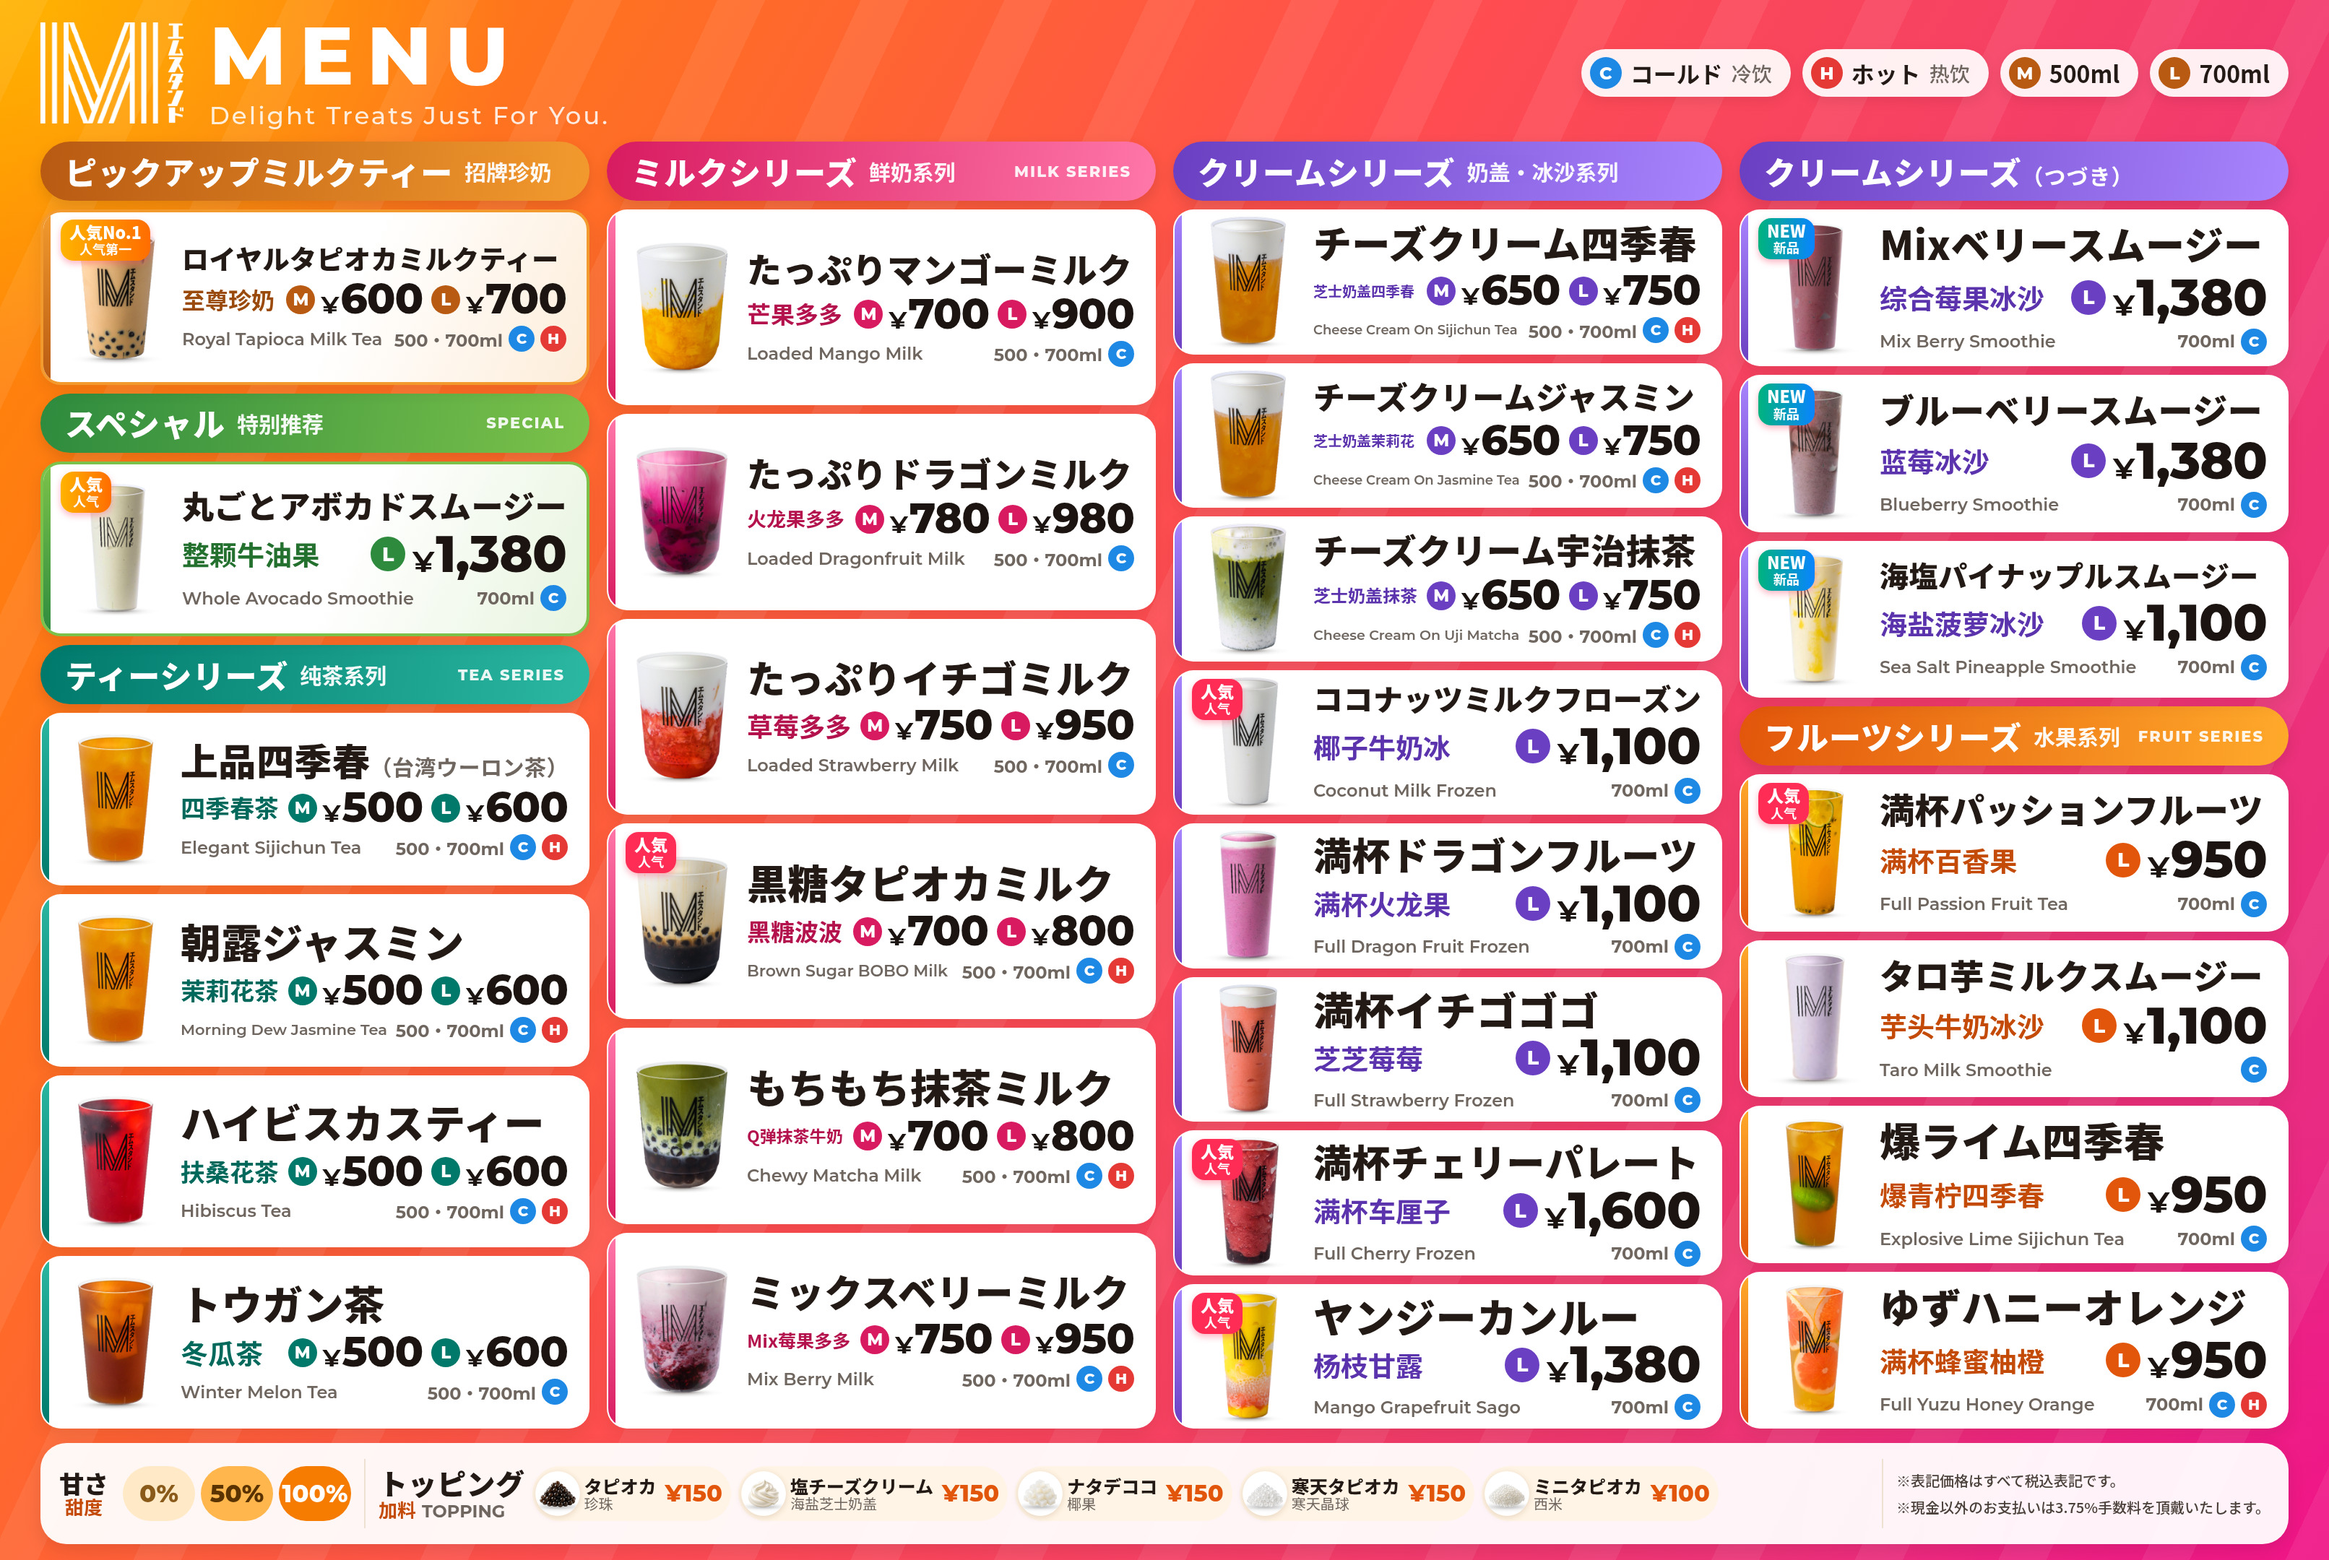
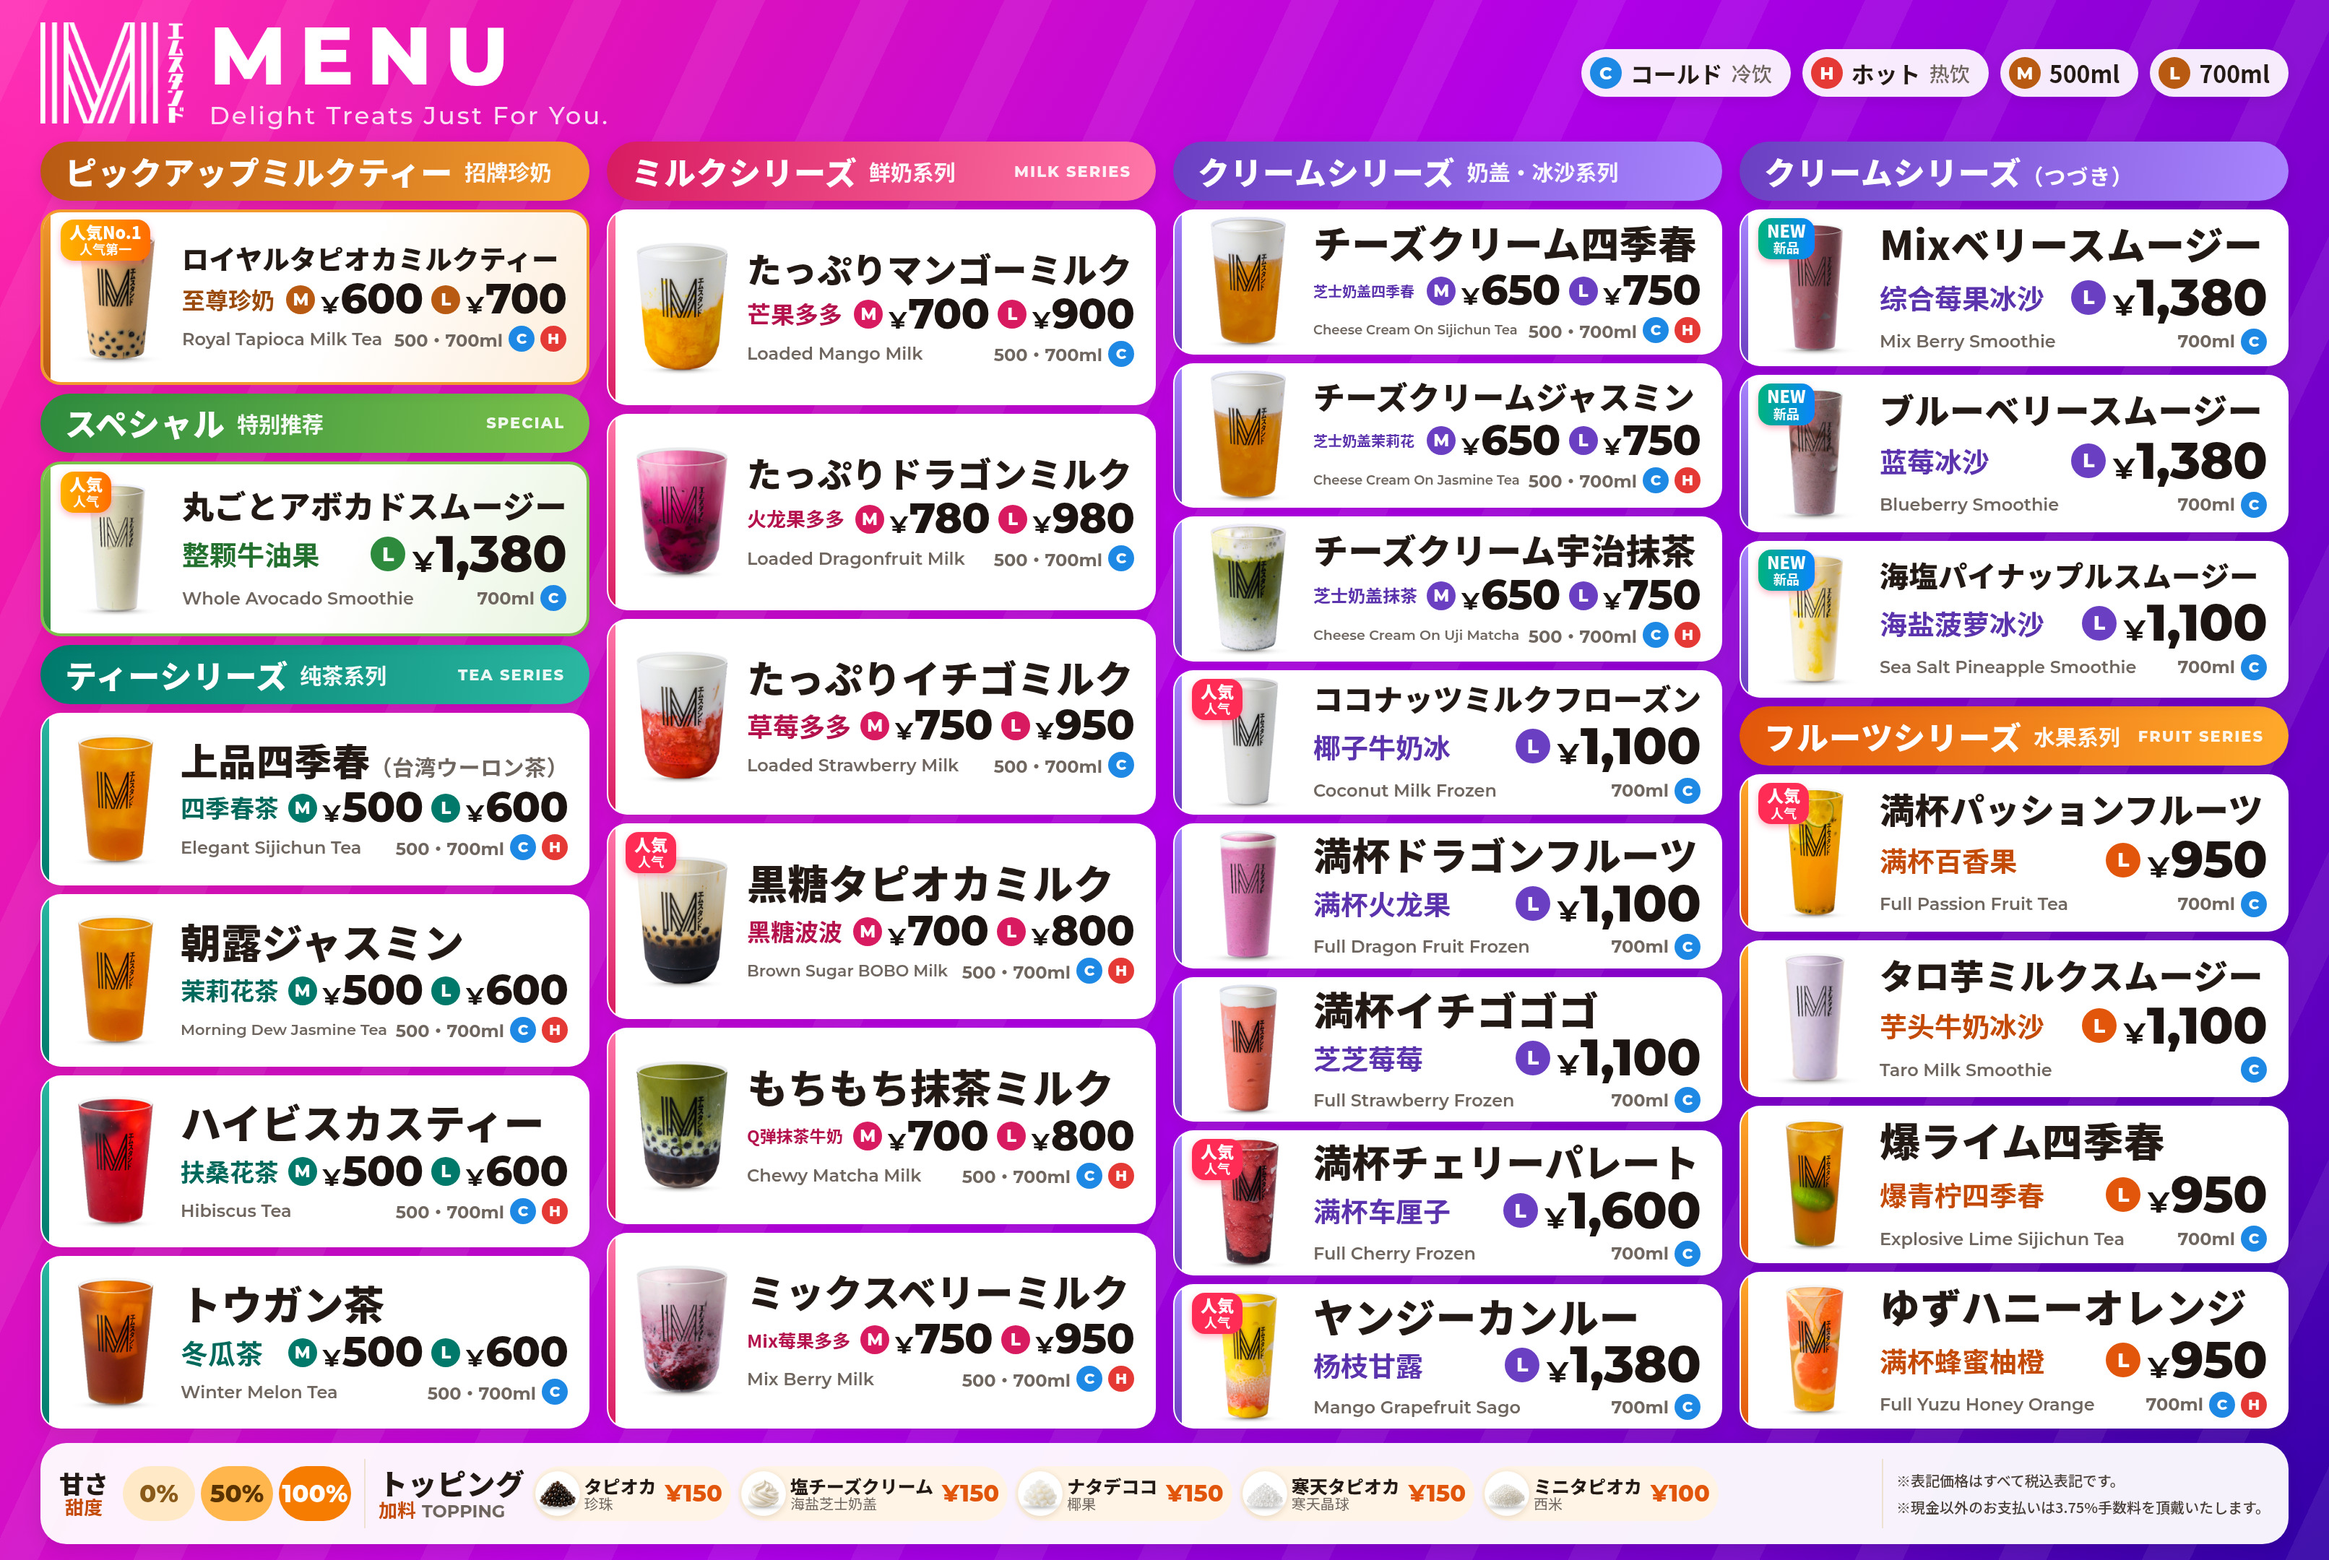
Screen: color scheme B (pink-purple, yellow numbers)

Changed region(s): [[0.0, 0.0, 1.0, 1.0]]

diff --git a/public/screen.html b/public/screen.html
@@ -4,14 +4,14 @@
 <meta http-equiv="Cache-Control" content="no-cache">
 <title>M Stand Screen</title>
 <style>
-html,body{margin:0;padding:0;width:100%;height:100%;overflow:hidden;background-color:#ff7a3d;background-image:-webkit-linear-gradient(-45deg,#ff9a3d,#ff5c8a);background-image:linear-gradient(135deg,#ff9a3d,#ff5c8a);font-family:"Hiragino Sans","Noto Sans CJK JP","Noto Sans JP","Droid Sans Fallback",sans-serif;color:#fff}
+html,body{margin:0;padding:0;width:100%;height:100%;overflow:hidden;background-color:#8A00E6;background-image:-webkit-linear-gradient(-45deg,#FF1F9E,#B000E8,#4B00B5);background-image:linear-gradient(135deg,#FF1F9E,#B000E8,#4B00B5);font-family:"Hiragino Sans","Noto Sans CJK JP","Noto Sans JP","Droid Sans Fallback",sans-serif;color:#fff}
 #menu{position:absolute;left:0;top:0;width:84%;height:100%;display:block;border:0}
-#q{position:absolute;right:0;top:0;width:16%;height:100%;background-color:#ff6a5a;background-image:-webkit-linear-gradient(top,#ff7a3d,#ff4f86);background-image:linear-gradient(to bottom,#ff7a3d,#ff4f86);text-align:center}
+#q{position:absolute;right:0;top:0;width:16%;height:100%;background-color:#5A00C0;background-image:-webkit-linear-gradient(top,#8A00E6,#3A0096);background-image:linear-gradient(to bottom,#8A00E6,#3A0096);text-align:center}
 .t{position:absolute;left:0;width:100%;top:3%;font-size:1.5vw;font-weight:bold;line-height:1.3}
 .t span{display:block;font-size:1vw}
-#n{position:absolute;left:0;width:100%;top:13%;font-size:8vw;font-weight:bold;line-height:1.1;white-space:nowrap;overflow:hidden}
+#n{position:absolute;left:0;width:100%;top:13%;font-size:8vw;font-weight:bold;line-height:1.1;color:#FFE600;text-shadow:0 0 1.2vw rgba(255,230,0,.55);white-space:nowrap;overflow:hidden}
 .sub{position:absolute;left:0;width:100%;top:31%;font-size:.95vw;font-weight:bold}
-.box{position:absolute;left:4%;width:92%;background-color:rgba(255,255,255,.2);border-radius:.8vw;padding:1% 0}
+.box{position:absolute;left:4%;width:92%;background-color:rgba(255,255,255,.14);border-radius:.8vw;padding:1% 0}
 .box h2{margin:0 0 .5vh 0;font-size:.95vw}
 #prepb{top:52%;height:22%;overflow:hidden}
 #histb{top:76%;height:14%;overflow:hidden}
@@ -22,7 +22,7 @@ html,body{margin:0;padding:0;width:100%;height:100%;overflow:hidden;background-c
 .flash{-webkit-animation:f .6s 5;animation:f .6s 5}
 @-webkit-keyframes f{50%{opacity:.25}}@keyframes f{50%{opacity:.25}}
 </style></head><body>
-<img id="menu" src="/menu.jpg?v=5" alt="menu">
+<img id="menu" src="/menu.jpg?v=6" alt="menu">
 <div id="q">
  <div class="t">お呼び出し番号<span>请取餐</span></div>
  <div id="n">-</div>
@@ -43,7 +43,7 @@ function esc(s){return String(s).replace(/&/g,'&amp;').replace(/</g,'&lt;').repl
 function fit(){try{var m=$('menu'),W=Math.floor(window.innerWidth*0.84),H=window.innerHeight,a=1612/1080,w=W,h=Math.round(W/a);
  if(h>H){h=H;w=Math.round(H*a)}
  m.style.width=w+'px';m.style.height=h+'px';m.style.left=Math.floor((W-w)/2)+'px';m.style.top=Math.floor((H-h)/2)+'px';
- var dpr=window.devicePixelRatio||1,want=(w*dpr>1700)?'/menu@2x.jpg?v=5':'/menu.jpg?v=5';
+ var dpr=window.devicePixelRatio||1,want=(w*dpr>1700)?'/menu@2x.jpg?v=6':'/menu.jpg?v=6';
  if(m.getAttribute('src')!==want)m.setAttribute('src',want);
  if(location.search.indexOf('debug=1')>=0){var d=$('dbg');d.style.display='block';d.innerHTML=window.innerWidth+'x'+window.innerHeight+' dpr '+dpr+' img '+w+'x'+h+' '+want}
 }catch(e){}}

diff --git a/public/screen-test.html b/public/screen-test.html
@@ -1,5 +1,5 @@
 <!DOCTYPE html><html><head><meta charset="utf-8"><title>M Stand OK</title></head>
-<body style="margin:0;background:#ff7a3d;color:#fff;font-family:sans-serif">
+<body style="margin:0;background:#8A00E6;color:#fff;font-family:sans-serif">
 <div style="font-size:80px;font-weight:bold;padding:20px">M Stand OK</div>
-<img src="/menu.jpg?v=5" style="width:70%" alt="menu">
+<img src="/menu.jpg?v=6" style="width:70%" alt="menu">
 </body></html>
